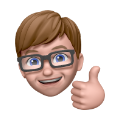
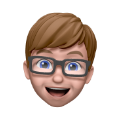
Cheeky little update

diff --git a/style.css b/style.css
@@ -1,2 +1,2 @@
-*{box-sizing:border-box}html,body{width:100%;height:100%;margin:0;padding:0}body{background-color:#fff;color:#333;font-size:18px;line-height:28px;font-weight:300;font-family:-apple-system, BlinkMacSystemFont, "Segoe UI", Roboto, "Helvetica Neue", sans-serif;text-align:center;display:flex;align-items:center}.night body{background-color:#070d1b;color:#eee}.app{width:100%;max-width:320px;margin:20px auto;display:block}img{width:auto;max-width:120px;margin:0 auto;display:block}h1{margin:0 0 10px;font-size:30px;line-height:40px;font-weight:300;letter-spacing:2px}p{margin:0}
+*{box-sizing:border-box}html,body{width:100%;height:100%;margin:0;padding:0}body{background-color:#fff;color:#333;font-size:18px;line-height:28px;font-weight:300;font-family:-apple-system, BlinkMacSystemFont, "Segoe UI", Roboto, "Helvetica Neue", sans-serif;text-align:center;display:flex;align-items:center}.night body{background-color:#070d1b;color:#eee}.app{width:100%;max-width:320px;margin:20px auto;display:block}img{width:auto;max-width:120px;margin:0 auto;display:block}h1{margin:0 0 10px;font-size:30px;line-height:40px;font-weight:300;letter-spacing:2px}p{margin:0}p.message{background-color:#028BFF;padding:8px 14px;display:inline-block;border-radius:20px;color:#fff;font-size:14px;line-height:16px;position:relative}p.message::before{background-color:#028BFF;width:10px;height:10px;display:block;position:absolute;top:-4px;left:calc( 50% - 5px );content:'';transform:rotate(-45deg)}
 /*# sourceMappingURL=style.css.map */

diff --git a/index.html b/index.html
@@ -16,13 +16,14 @@
 <div class="app">
 <img src="dan.png" alt="Dan as a Memoji" id="image" />
 <h1>Daniel James</h1>
-<p>Hello, how are you? 👋</p>
+<p class="message" id="message">Hiya, how's it going?</p>
 </div>
 <script>
 var now = new Date();
 if ( '20' <= now.getHours() || '07' >= now.getHours() ) {
 document.documentElement.className += 'night';
-document.getElementById('image').src = 'sleepy-dan.png';
+document.getElementById( 'image' ).src = 'sleepy-dan.png';
+document.getElementById( 'message' ).innerHTML = 'Night, night world.';
 }
 </script>
 </body>

diff --git a/style.scss b/style.scss
@@ -51,4 +51,25 @@ h1 {
 
 p {
 	margin: 0;
+	&.message {
+		background-color: #028BFF;
+		padding: 8px 14px;
+		display: inline-block;
+		border-radius: 20px;
+		color: #fff;
+		font-size: 14px;
+		line-height: 16px;
+		position: relative;
+		&::before {
+			background-color: #028BFF;
+			width: 10px;
+			height: 10px;
+			display: block;
+			position: absolute;
+			top: -4px;
+			left: calc( 50% - 5px );
+			content: '';
+			transform: rotate( -45deg );
+		}
+	}
 }
